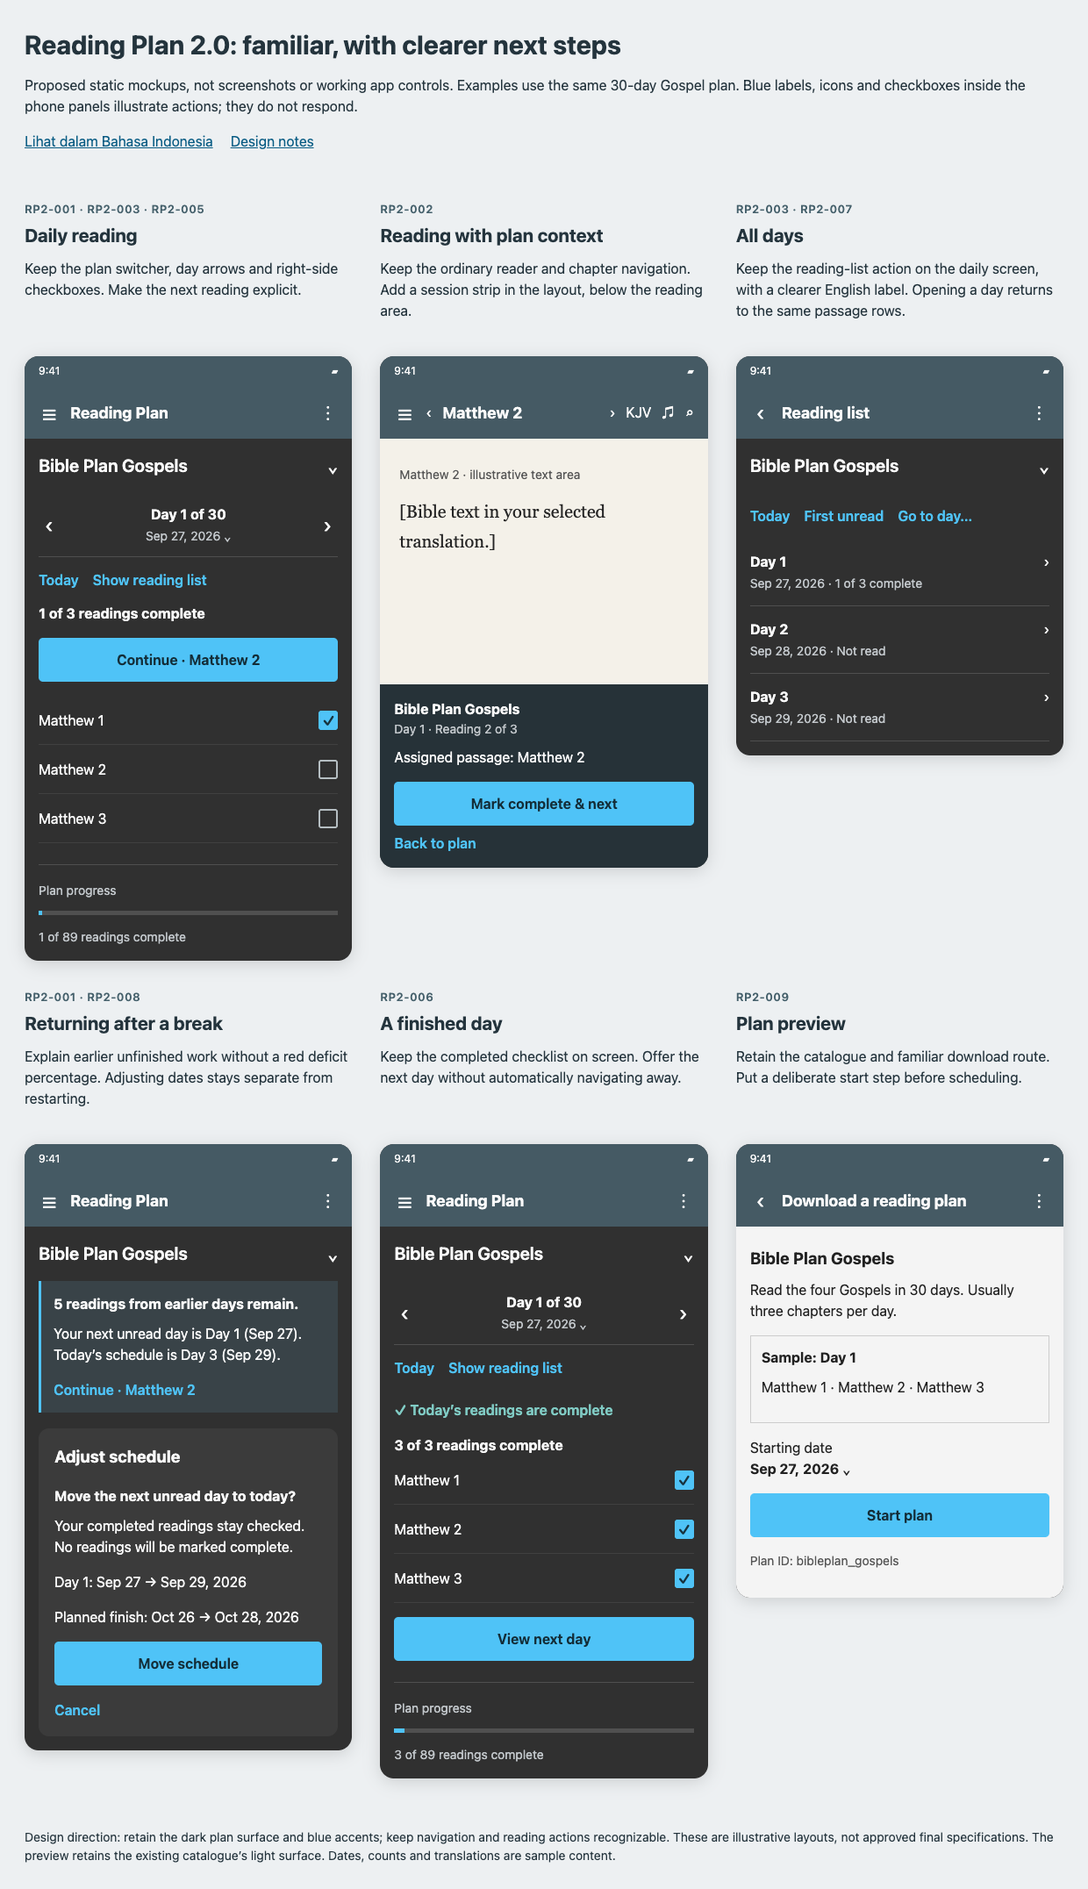
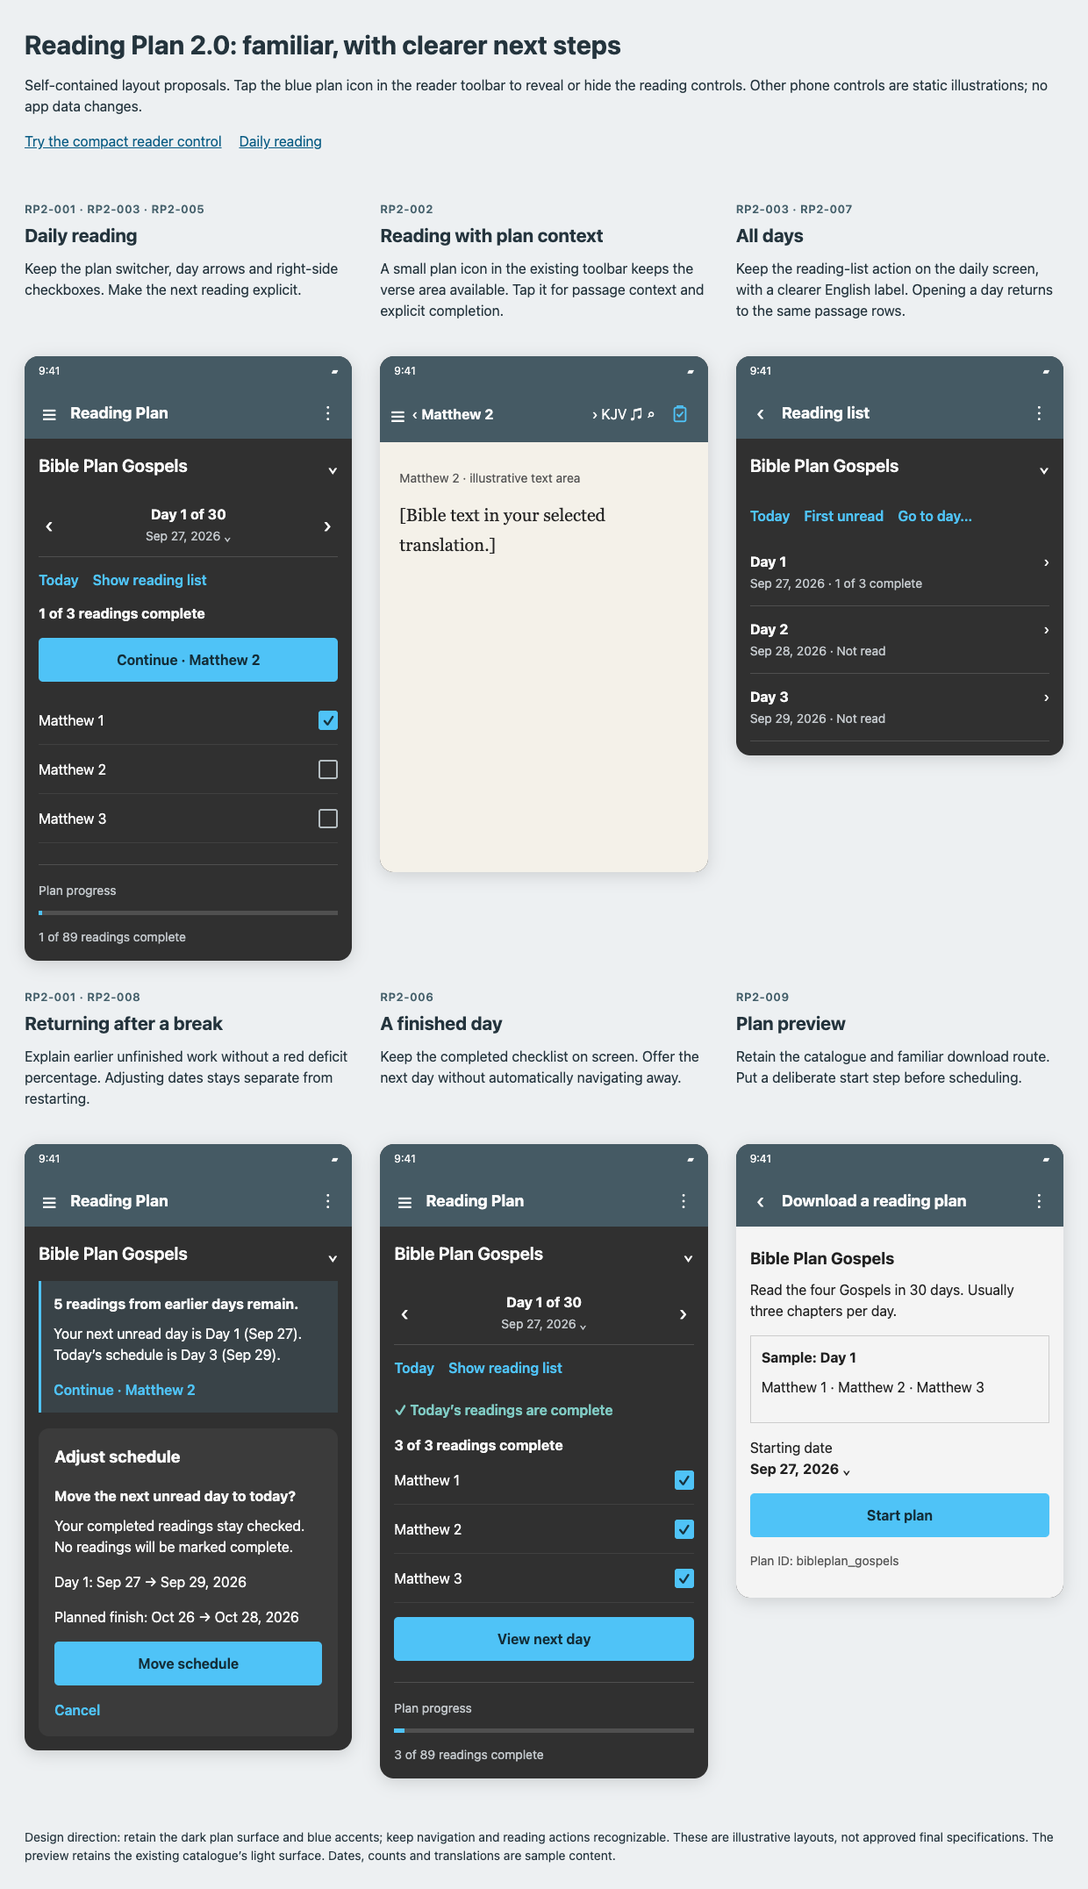
docs: make mockups standalone and minimize reader controls

diff --git a/docs/features/reading-plan-2.0/mockups/indonesian.html b/docs/features/reading-plan-2.0/mockups/indonesian.html
@@ -4,16 +4,85 @@
 <meta charset="utf-8">
 <meta name="viewport" content="width=device-width,initial-scale=1">
 <title>Jadwal Baca 2.0: tetap akrab, langkah berikutnya lebih jelas</title>
-<link rel="stylesheet" href="styles.css">
+<style>
+*{box-sizing:border-box}
+body{margin:0;background:#edf0f2;color:#24343d;font:16px/1.5 system-ui,sans-serif}
+header,main,footer{max-width:1260px;margin:auto;padding:28px}
+h1{font-size:30px;margin:0 0 12px}
+h2{font-size:21px;margin:4px 0}
+p{margin:10px 0 16px}
+a{color:#075b83}
+nav{display:flex;gap:20px;flex-wrap:wrap}
+.grid{display:grid;grid-template-columns:repeat(auto-fit,minmax(min(100%,350px),1fr));gap:32px;align-items:start}
+.example>p{min-height:96px}
+.phone{max-width:380px;margin:auto;background:#303030;color:#fafafa;border-radius:16px;overflow:hidden;box-shadow:0 4px 18px #0002}
+.status{padding:8px 16px;background:#455a64;font-size:12px;display:flex;justify-content:space-between}
+.toolbar{background:#455a64;display:flex;align-items:center;gap:12px;padding:12px 16px;min-height:56px}
+.toolbar strong{flex:1;font-size:18px}
+.icon{font-size:24px;min-width:24px;text-align:center}
+.content{padding:16px}
+.plan{display:flex;gap:12px;align-items:center;font-size:20px;margin:0 0 16px;font-weight:600}
+.plan span:first-child{flex:1}
+.date{display:flex;align-items:center;justify-content:space-between;gap:12px;text-align:center;padding:12px 0;border-bottom:1px solid #ffffff26}
+.date strong{display:block}
+.muted{color:#c2c7cb;font-size:14px}
+.pillbar{display:flex;gap:16px;flex-wrap:wrap;padding:14px 0}
+.action{color:#4fc3f7;font-weight:600}
+.primary{display:block;background:#4fc3f7;color:#132d38;padding:13px 16px;border-radius:5px;text-align:center;font-weight:650;margin:16px 0}
+.row{display:flex;align-items:center;justify-content:space-between;gap:12px;min-height:56px;border-bottom:1px solid #ffffff14}
+.row span:first-child{flex:1}
+.check{width:22px;height:22px;border:2px solid #b5bec2;border-radius:3px;display:inline-flex;align-items:center;justify-content:center;flex-shrink:0}
+.checked{background:#4fc3f7;border-color:#4fc3f7;color:#173440;font-weight:bold}
+.summary{margin-top:24px;padding-top:16px;border-top:1px solid #ffffff26}
+.track{height:5px;background:#505050;margin:12px 0}
+.fill{height:100%;background:#4fc3f7}
+.notice{padding:14px;background:#394348;border-left:3px solid #4fc3f7;margin:16px 0}
+.success{color:#80cbc4;font-weight:600}
+.verse{background:#f4f1e9;color:#252525;padding:22px;min-height:280px;font:20px/1.7 Georgia,serif}
+.verse small{font:14px system-ui;color:#555}
+.dayrow{padding:14px 0;border-bottom:1px solid #ffffff26;display:flex;justify-content:space-between;gap:10px}
+.dayrow strong{display:block}
+.sheet{background:#3b3b3b;border-radius:12px;padding:18px;margin-top:18px}
+.sheet h3{margin-top:0}
+.meta{font-size:13px;font-weight:600;color:#46616c;letter-spacing:.04em}
+.sample{border:1px solid #ffffff26;padding:12px;margin:16px 0}
+.catalogue{background:#f4f4f4;color:#222;padding:16px}
+.catalogue .muted{color:#555}
+.catalogue h3{margin:6px 0}
+.catalogue .sample{border-color:#ccc}
+footer{font-size:14px}
+.sr{position:absolute;width:1px;height:1px;padding:0;margin:-1px;overflow:hidden;clip:rect(0,0,0,0);white-space:nowrap;border:0}
+@media(max-width:450px){header,main,footer{padding:18px}
+.example>p{min-height:0}
+}
+@media print{body{background:white}
+.grid{display:block}
+.example{break-inside:avoid;margin:24px 0}
+.phone{box-shadow:none}
+nav{display:none}
+}
+
+#reader .phone{position:relative}
+#reader .toolbar{gap:4px;padding:8px}
+#reader .toolbar strong{min-width:0;font-size:16px;overflow-wrap:anywhere}
+#reader .verse{min-height:490px}
+.plan-control{flex:0 0 48px}
+.plan-control summary{width:48px;height:48px;display:grid;place-items:center;cursor:pointer;list-style:none;border-radius:6px;color:#4fc3f7}
+.plan-control summary::-webkit-details-marker{display:none}
+.plan-control summary:focus-visible{outline:2px solid #fff;outline-offset:-3px}
+.plan-control summary svg{width:22px;height:22px}
+.plan-control[open] summary{background:#263238}
+.plan-popover{position:absolute;top:96px;right:8px;left:8px;background:#263238;color:#fafafa;padding:18px;border-radius:8px;z-index:2;box-shadow:0 6px 18px #0005}
+.plan-popover strong{font-size:18px!important}
+.plan-popover .muted{margin-top:8px}
+
+</style>
 </head>
 <body>
 <header>
 <h1>Jadwal Baca 2.0: tetap akrab, langkah berikutnya lebih jelas</h1>
-<p>Usulan tampilan statis, bukan tangkapan layar atau aplikasi yang dapat digunakan. Contoh memakai jadwal baca Injil selama 30 hari yang sama. Teks biru, ikon, dan kotak centang di dalam tampilan ponsel hanya menggambarkan tindakan; tidak dapat ditekan.</p>
-<nav>
-<a href="english.html">View in English</a>
-<a href="../mockups.md">Catatan desain</a>
-</nav>
+<p>Usulan tampilan mandiri. Tekan ikon jadwal berwarna biru di bilah pembaca untuk menampilkan atau menyembunyikan kontrol bacaan. Kontrol ponsel lainnya hanya ilustrasi; data aplikasi tidak berubah.</p>
+<nav><a href="#reader">Coba kontrol pembaca ringkas</a><a href="#daily">Bacaan harian</a></nav>
 </header>
 <main class="grid">
 <section class="example" id="daily">
@@ -80,7 +149,7 @@
 <section class="example" id="reader">
 <div class="meta">RP2-002</div>
 <h2>Membaca dalam jadwal</h2>
-<p>Pertahankan pembaca dan navigasi pasal yang sudah dikenal. Tambahkan panel dalam tata letak, di bawah area baca.</p>
+<p>Ikon jadwal kecil di bilah yang sudah ada menjaga ruang ayat tetap luas. Tekan untuk melihat konteks bacaan dan menandainya selesai.</p>
 <div class="phone">
 <div class="status">
 <span>9:41</span>
@@ -94,17 +163,16 @@
 <span>TB</span>
 <span aria-hidden="true">♫</span>
 <span aria-hidden="true">⌕</span>
-</div>
-<div class="verse">
-<small>Matius 2 · contoh area teks</small>
-<p>[Teks Alkitab dalam versi pilihan Anda.]</p>
-</div>
-<div class="session">
+<details class="plan-control"><summary aria-label="Jadwal baca: Hari 1, bacaan 2 dari 3. Tampilkan atau sembunyikan kontrol" title="Jadwal baca: Hari 1, bacaan 2 dari 3. Tampilkan atau sembunyikan kontrol"><svg viewBox="0 0 24 24" fill="none" stroke="currentColor" stroke-width="2" aria-hidden="true"><rect x="5" y="4" width="14" height="17" rx="2"/><path d="M9 4V2h6v2M8 12l3 3 5-6"/></svg></summary><div class="plan-popover">
 <strong>Bible Plan Gospels</strong>
 <div class="muted">Hari 1 · Bacaan 2 dari 3</div>
 <p>Bacaan yang dijadwalkan: Matius 2</p>
 <div class="primary">Tandai selesai & lanjut</div>
-<div class="action">Kembali ke jadwal baca</div>
+<div class="action">Kembali ke jadwal baca</div><p class="muted">Tekan ikon jadwal lagi untuk menutup. Membuka atau menutup panel ini tidak menandai bacaan selesai.</p></div></details>
+</div>
+<div class="verse">
+<small>Matius 2 · contoh area teks</small>
+<p>[Teks Alkitab dalam versi pilihan Anda.]</p>
 </div>
 </div>
 </section>

diff --git a/docs/features/reading-plan-2.0/mockups/english.html b/docs/features/reading-plan-2.0/mockups/english.html
@@ -4,16 +4,85 @@
 <meta charset="utf-8">
 <meta name="viewport" content="width=device-width,initial-scale=1">
 <title>Reading Plan 2.0: familiar, with clearer next steps</title>
-<link rel="stylesheet" href="styles.css">
+<style>
+*{box-sizing:border-box}
+body{margin:0;background:#edf0f2;color:#24343d;font:16px/1.5 system-ui,sans-serif}
+header,main,footer{max-width:1260px;margin:auto;padding:28px}
+h1{font-size:30px;margin:0 0 12px}
+h2{font-size:21px;margin:4px 0}
+p{margin:10px 0 16px}
+a{color:#075b83}
+nav{display:flex;gap:20px;flex-wrap:wrap}
+.grid{display:grid;grid-template-columns:repeat(auto-fit,minmax(min(100%,350px),1fr));gap:32px;align-items:start}
+.example>p{min-height:96px}
+.phone{max-width:380px;margin:auto;background:#303030;color:#fafafa;border-radius:16px;overflow:hidden;box-shadow:0 4px 18px #0002}
+.status{padding:8px 16px;background:#455a64;font-size:12px;display:flex;justify-content:space-between}
+.toolbar{background:#455a64;display:flex;align-items:center;gap:12px;padding:12px 16px;min-height:56px}
+.toolbar strong{flex:1;font-size:18px}
+.icon{font-size:24px;min-width:24px;text-align:center}
+.content{padding:16px}
+.plan{display:flex;gap:12px;align-items:center;font-size:20px;margin:0 0 16px;font-weight:600}
+.plan span:first-child{flex:1}
+.date{display:flex;align-items:center;justify-content:space-between;gap:12px;text-align:center;padding:12px 0;border-bottom:1px solid #ffffff26}
+.date strong{display:block}
+.muted{color:#c2c7cb;font-size:14px}
+.pillbar{display:flex;gap:16px;flex-wrap:wrap;padding:14px 0}
+.action{color:#4fc3f7;font-weight:600}
+.primary{display:block;background:#4fc3f7;color:#132d38;padding:13px 16px;border-radius:5px;text-align:center;font-weight:650;margin:16px 0}
+.row{display:flex;align-items:center;justify-content:space-between;gap:12px;min-height:56px;border-bottom:1px solid #ffffff14}
+.row span:first-child{flex:1}
+.check{width:22px;height:22px;border:2px solid #b5bec2;border-radius:3px;display:inline-flex;align-items:center;justify-content:center;flex-shrink:0}
+.checked{background:#4fc3f7;border-color:#4fc3f7;color:#173440;font-weight:bold}
+.summary{margin-top:24px;padding-top:16px;border-top:1px solid #ffffff26}
+.track{height:5px;background:#505050;margin:12px 0}
+.fill{height:100%;background:#4fc3f7}
+.notice{padding:14px;background:#394348;border-left:3px solid #4fc3f7;margin:16px 0}
+.success{color:#80cbc4;font-weight:600}
+.verse{background:#f4f1e9;color:#252525;padding:22px;min-height:280px;font:20px/1.7 Georgia,serif}
+.verse small{font:14px system-ui;color:#555}
+.dayrow{padding:14px 0;border-bottom:1px solid #ffffff26;display:flex;justify-content:space-between;gap:10px}
+.dayrow strong{display:block}
+.sheet{background:#3b3b3b;border-radius:12px;padding:18px;margin-top:18px}
+.sheet h3{margin-top:0}
+.meta{font-size:13px;font-weight:600;color:#46616c;letter-spacing:.04em}
+.sample{border:1px solid #ffffff26;padding:12px;margin:16px 0}
+.catalogue{background:#f4f4f4;color:#222;padding:16px}
+.catalogue .muted{color:#555}
+.catalogue h3{margin:6px 0}
+.catalogue .sample{border-color:#ccc}
+footer{font-size:14px}
+.sr{position:absolute;width:1px;height:1px;padding:0;margin:-1px;overflow:hidden;clip:rect(0,0,0,0);white-space:nowrap;border:0}
+@media(max-width:450px){header,main,footer{padding:18px}
+.example>p{min-height:0}
+}
+@media print{body{background:white}
+.grid{display:block}
+.example{break-inside:avoid;margin:24px 0}
+.phone{box-shadow:none}
+nav{display:none}
+}
+
+#reader .phone{position:relative}
+#reader .toolbar{gap:4px;padding:8px}
+#reader .toolbar strong{min-width:0;font-size:16px;overflow-wrap:anywhere}
+#reader .verse{min-height:490px}
+.plan-control{flex:0 0 48px}
+.plan-control summary{width:48px;height:48px;display:grid;place-items:center;cursor:pointer;list-style:none;border-radius:6px;color:#4fc3f7}
+.plan-control summary::-webkit-details-marker{display:none}
+.plan-control summary:focus-visible{outline:2px solid #fff;outline-offset:-3px}
+.plan-control summary svg{width:22px;height:22px}
+.plan-control[open] summary{background:#263238}
+.plan-popover{position:absolute;top:96px;right:8px;left:8px;background:#263238;color:#fafafa;padding:18px;border-radius:8px;z-index:2;box-shadow:0 6px 18px #0005}
+.plan-popover strong{font-size:18px!important}
+.plan-popover .muted{margin-top:8px}
+
+</style>
 </head>
 <body>
 <header>
 <h1>Reading Plan 2.0: familiar, with clearer next steps</h1>
-<p>Proposed static mockups, not screenshots or working app controls. Examples use the same 30-day Gospel plan. Blue labels, icons and checkboxes inside the phone panels illustrate actions; they do not respond.</p>
-<nav>
-<a href="indonesian.html">Lihat dalam Bahasa Indonesia</a>
-<a href="../mockups.md">Design notes</a>
-</nav>
+<p>Self-contained layout proposals. Tap the blue plan icon in the reader toolbar to reveal or hide the reading controls. Other phone controls are static illustrations; no app data changes.</p>
+<nav><a href="#reader">Try the compact reader control</a><a href="#daily">Daily reading</a></nav>
 </header>
 <main class="grid">
 <section class="example" id="daily">
@@ -80,7 +149,7 @@
 <section class="example" id="reader">
 <div class="meta">RP2-002</div>
 <h2>Reading with plan context</h2>
-<p>Keep the ordinary reader and chapter navigation. Add a session strip in the layout, below the reading area.</p>
+<p>A small plan icon in the existing toolbar keeps the verse area available. Tap it for passage context and explicit completion.</p>
 <div class="phone">
 <div class="status">
 <span>9:41</span>
@@ -94,17 +163,16 @@
 <span>KJV</span>
 <span aria-hidden="true">♫</span>
 <span aria-hidden="true">⌕</span>
-</div>
-<div class="verse">
-<small>Matthew 2 · illustrative text area</small>
-<p>[Bible text in your selected translation.]</p>
-</div>
-<div class="session">
+<details class="plan-control"><summary aria-label="Reading plan: Day 1, reading 2 of 3. Show or hide controls" title="Reading plan: Day 1, reading 2 of 3. Show or hide controls"><svg viewBox="0 0 24 24" fill="none" stroke="currentColor" stroke-width="2" aria-hidden="true"><rect x="5" y="4" width="14" height="17" rx="2"/><path d="M9 4V2h6v2M8 12l3 3 5-6"/></svg></summary><div class="plan-popover">
 <strong>Bible Plan Gospels</strong>
 <div class="muted">Day 1 · Reading 2 of 3</div>
 <p>Assigned passage: Matthew 2</p>
 <div class="primary">Mark complete & next</div>
-<div class="action">Back to plan</div>
+<div class="action">Back to plan</div><p class="muted">Tap the plan icon again to close. Opening or closing this panel does not mark a reading complete.</p></div></details>
+</div>
+<div class="verse">
+<small>Matthew 2 · illustrative text area</small>
+<p>[Bible text in your selected translation.]</p>
 </div>
 </div>
 </section>

diff --git a/docs/features/reading-plan-2.0/mockups.md b/docs/features/reading-plan-2.0/mockups.md
@@ -1,7 +1,7 @@
 # Bilingual design mockups
 
-Created: 2026-09-28. These are proposed static layouts, not screenshots of a
-shipped feature or an interactive app prototype. They illustrate the backlog;
+Created: 2026-09-28. These are proposed layouts with an expandable reader control, not screenshots of a
+shipped feature or a functional app prototype. They illustrate the backlog;
 they do not change any entry's Proposed status.
 
 ## Open the mockups
@@ -9,11 +9,12 @@ they do not change any entry's Proposed status.
 - [English HTML](mockups/english.html)
 - [Indonesian HTML](mockups/indonesian.html)
 
-Open either file in a browser from a local checkout. Both work offline with the
-adjacent `styles.css` file and link to the other language. GitHub displays HTML
+Open either HTML file by itself in a browser. Each embeds its own CSS and icon
+SVG and needs no adjacent files, images, scripts, fonts, or network requests. GitHub displays HTML
 source rather than running it; the rendered overview images below are provided
-for PR review. Only the language and documentation links are interactive.
-Controls drawn inside the phone panels are static illustrations.
+for PR review. The reader plan icon opens and closes a native HTML disclosure; the other
+phone controls remain static illustrations. In-page navigation also works.
+The PNG overviews are for Markdown review only; neither HTML file loads them.
 
 | English overview | Indonesian overview |
 | --- | --- |
@@ -39,7 +40,7 @@ or gesture-only controls merely to make the screen look new.
 | Show details / Tampilkan daftar baca | Keep a visible reading-list action on the daily screen; open a dedicated day list | Retain the Indonesian label exactly. Clarify the English label to Show reading list. Back returns to the same day and scroll position. |
 | Plus/download and delete icons | Move management into a labeled overflow menu | Include Download a reading plan / Unduh jadwal baca and Remove downloaded plan / Hapus jadwal yang diunduh. Keep the familiar download wording. |
 | Date-menu recovery and drawer Restart | Consolidate management without abruptly removing old routes | During the transition, keep the old date-menu and drawer actions as aliases to the same new dialogs. Decide their later removal only after usability validation. |
-| Ordinary Bible reader | Add a compact plan-session strip in layout flow | Do not replace chapter navigation or overlay verse text. Back still returns to the plan. |
+| Ordinary Bible reader | Add a small contextual plan icon to the existing toolbar | No persistent bottom strip or new toolbar row. Reveal a temporary panel only on request. Back still returns to the plan. |
 | Checkmarks after finishing | Keep the completed list visible | Add calm completion feedback and an optional next-day action; never auto-advance. |
 
 Keep familiar English and Indonesian feature names, Reading Plan and Jadwal
@@ -52,7 +53,7 @@ curated copy, not evidence that arbitrary catalogue content is translated.
 | Screen | Backlog | Intended behavior |
 | --- | --- | --- |
 | Daily reading | RP2-001, RP2-003, RP2-005 | Show daily counts and a named Continue action. Preserve arrows, date, switcher, reference rows, and explicit checks. Today remains directly available. |
-| Reader session | RP2-002 | Show assigned passage, day, and sequence. Explicitly complete and advance to the next unfinished passage of that day. Leaving the session does not complete anything. |
+| Reader session | RP2-002 | Keep the plan icon collapsed while reading. Tap to reveal assigned passage, day, sequence, and explicit completion. Closing the panel does not complete anything. |
 | All days | RP2-003, RP2-004, RP2-007 | Show a compact date/status list. Selecting a day opens the same daily passage layout; return preserves position. The mockup shows a sample, not the entire plan. |
 | Returning after a break | RP2-001, RP2-008 | Explain earlier unfinished readings and distinguish next unread from today's schedule. The lower panel represents the confirmation opened by Adjust schedule, not a permanent second dashboard. |
 | Finished day | RP2-006 | Keep checked rows, confirm completion, and offer optional navigation. The whole-plan completion state remains specified in the backlog and is not illustrated here. |
@@ -68,6 +69,29 @@ complete. The two remaining readings from Day 1 plus three from Day 2 make
 five earlier unfinished readings. Shifting Day 1 to September 29 moves the
 30-day plan's finish from October 26 to October 28, preserving the checkmark.
 It does not mark the missed passages read or change their sequence.
+
+## RP2-002: Protect the reading area
+
+The default reader has only a small checklist icon in the existing toolbar,
+with a 48 px illustrative hit area and an accessible label. It adds no permanent
+height below the toolbar and no persistent panel over verses. Tap the icon to
+open the temporary context/completion panel; tap again to close it. The native
+disclosure supports keyboard activation. Completion remains an explicit action
+inside the panel, never an effect of opening or dismissing it.
+
+The app implementation should close the panel on Back or outside tap, return
+focus to the icon, and close it after completing and advancing. These behaviors
+are requirements, not simulated by the static completion labels in this HTML.
+Preserve chapter navigation, version, audio, and search controls. If the icon
+cannot fit at a narrow width or large font size without squeezing the reference
+or touch targets, expose the same labeled action through the reader navigation
+drawer instead of adding a second toolbar row or reducing the reading area.
+The icon is contextual to an active plan session; ordinary reading does not
+need an extra control. Validate discoverability with current users.
+
+| English: panel opened on request | Indonesian: panel opened on request |
+| --- | --- |
+| ![English plan controls revealed by the icon](mockups/english-reader-expanded.png) | ![Indonesian plan controls revealed by the icon](mockups/indonesian-reader-expanded.png) |
 
 ## English and Indonesian copy
 

diff --git a/docs/features/reading-plan-2.0/backlog.md b/docs/features/reading-plan-2.0/backlog.md
@@ -62,15 +62,21 @@ Label overall units as readings, not chapters, days, verses, or minutes.
 record completion separately.
 
 **Proposed behavior:** retain plan identity, day, and passage sequence alongside
-the assigned range. Present a compact session control identifying the range and
-position within the day. Offer explicit completion and continuation to the next
+the assigned range. Use a small contextual icon in the existing reader toolbar;
+do not reserve a persistent strip below the verses. On request, reveal the range,
+position within the day, and completion actions in a temporary panel. Offer explicit completion and continuation to the next
 unfinished passage in the same day. After its last unfinished passage, show the
 daily completion state. Leaving the session does not mark anything complete.
 
 **Acceptance criteria:**
 
-- Single- and multi-chapter assignments show the complete assigned range while
-  reading; the session does not obscure normal Bible controls or verse content.
+- While collapsed, the session adds no vertical chrome and no overlay over
+  verses. Its icon has an accessible label and a usable touch target. If space
+  is insufficient, use the reader drawer action rather than squeezing existing
+  controls or adding a toolbar row.
+- Opening the panel shows the complete assigned range for single- and
+  multi-chapter assignments. Back or an outside tap closes it without completion;
+  focus returns to the icon. Completing and advancing closes the panel.
 - Completing a passage updates exactly its originating plan entry once and
   offers the correct next unfinished passage. Opening, scrolling, and dismissing
   a session do not change completion.
